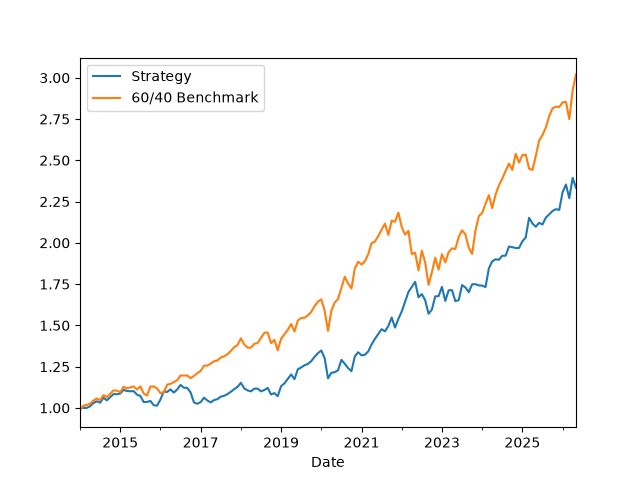
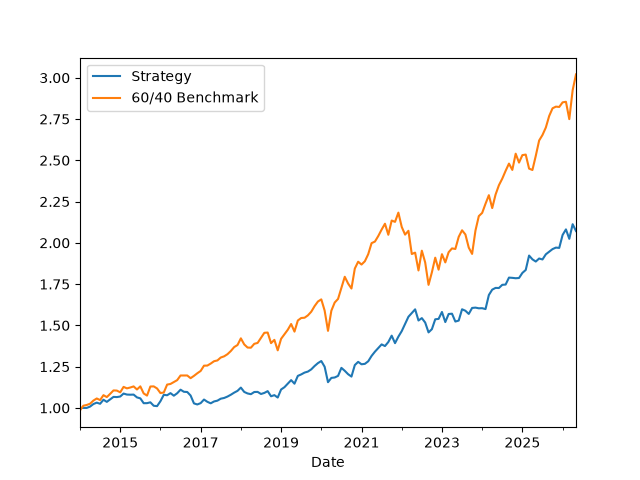
wire momentum tilt into allocation chain
Momentum state (PMI) now derives a per-row weight tilt via
apply_tilt: lean-in/hold/de-risk scale the basket against a
cash buffer, conserving row sums to 1.0. Tunable knobs (buffer=0.20,
magnitude=0.10) live at the call site; magnitude=0.0 recovers a
pure-buffer control

Vintage backtest (2014-2026-05): tilt-on 2.08x, control 2.07x vs
prior 2.33x baseline. Buffer costs -0.26x drag; PMI-momentum timing
adds +0.01x at default knobs -- a wash. Knobs left at a priori defaults,
not fit

diff --git a/src/phase_3/momentum_tilt.py b/src/phase_3/momentum_tilt.py
@@ -30,11 +30,23 @@ def momentum_to_state(momentum, deadband=1.0):
     else:
         return 'flat'
     
+def apply_tilt(weights, stance, buffer, magnitude):
+    if magnitude > buffer:
+        raise ValueError('magnitude must be lesser than or equal to buffer')
 
-for val in [2.5, -2.5, 0.3, -0.8, float('nan')]:
-    print(val, '->', momentum_to_state(val))
-    print(lookup('Goldilocks', 'accel'))
-    print(lookup('Risk-Off', 'accel'))
-    print(lookup('Stagflation', 'decel'))
-    print(lookup('Goldilocks', 'none'))
+    sign = {'lean-in': +1, 'hold': 0, 'de-risk': -1}
+    factor = (1 - buffer) + sign[stance] * magnitude
+
+    tilt = weights * factor
+    tilt['BIL'] = tilt['BIL'] + (1 - factor)
+
+    return tilt
+
+if __name__ == '__main__':
+    for val in [2.5, -2.5, 0.3, -0.8, float('nan')]:
+        print(val, '->', momentum_to_state(val))
+        print(lookup('Goldilocks', 'accel'))
+        print(lookup('Risk-Off', 'accel'))
+        print(lookup('Stagflation', 'decel'))
+        print(lookup('Goldilocks', 'none'))
 

diff --git a/src/phase_2/backtest.py b/src/phase_2/backtest.py
@@ -1,4 +1,6 @@
 from src.phase_1.classify_regime import classify_regime
+from src.phase_3.momentum import momentum
+from src.phase_3.momentum_tilt import lookup, momentum_to_state, apply_tilt
 import pandas as pd
 
 CATEGORY_TO_TICKER = {
@@ -35,11 +37,15 @@ def weights_from_classification(classification, tickers):
 
     return weights
 
-def build_weights_table(inputs, tickers):
+def build_weights_table(inputs, tickers, states, buffer=0.20, magnitude=0.10):
     rows = {}
     for date, row in inputs.iterrows():
         classification = classify_regime(row['pmi'], row['cpi'])
-        rows[date] = weights_from_classification(classification, tickers)
-    
+        base = weights_from_classification(classification, tickers)
+        state = states[date]
+        stance = lookup(classification['regime'], state)
+        tilted_row = apply_tilt(pd.Series(base), stance, buffer, magnitude)
+        rows[date] = tilted_row
+
     return pd.DataFrame(rows).T
     

diff --git a/src/phase_2/run_backtest.py b/src/phase_2/run_backtest.py
@@ -2,6 +2,9 @@ from src.phase_2.fred_data import fetch_cpi, fetch_pmi, smooth, cpi_to_yoy, fetc
 from src.phase_2.backtest import build_weights_table
 from src.phase_2.price_data import fetch_prices
 from src.phase_2.backtest import to_monthly_returns, cumulative
+from src.phase_3.momentum import momentum
+from src.phase_3.momentum_tilt import momentum_to_state, apply_tilt, lookup
+
 import pandas as pd
 import matplotlib.pyplot as plt
 import os
@@ -58,8 +61,9 @@ def build_vintage_inputs(fred):
 
 if __name__ == '__main__':
     inputs = build_vintage_inputs(fred)
-
-    weights = build_weights_table(inputs, tickers)
+    mom = momentum(inputs['pmi'])
+    states = mom.apply(momentum_to_state)
+    weights = build_weights_table(inputs, tickers, states)
     weights = weights.shift(1)
 
     prices = fetch_prices(tickers, '2010-01-01', None)

diff --git a/tests/test_momentum.py b/tests/test_momentum.py
@@ -1,7 +1,8 @@
 from src.phase_3.momentum import momentum
-from src.phase_3.momentum_tilt import lookup, momentum_to_state
+from src.phase_3.momentum_tilt import lookup, momentum_to_state, apply_tilt
 import pytest
 import pandas as pd
+from pandas.testing import assert_series_equal
 
 def test_momentum():
     series = pd.Series([
@@ -25,3 +26,9 @@ def test_lookup():
     assert lookup('Goldilocks', 'flat') == 'hold'
     assert lookup('Stagflation', 'flat') == 'hold'
     assert lookup('Goldilocks', 'none') == 'hold'
+
+def test_apply_tilt():
+    row = pd.Series({'TLT': 0.34, 'GLD': 0.33, 'BIL': 0.33})
+    result = apply_tilt(row, 'de-risk', 0.20, 0.10)
+    expected = pd.Series({'TLT': 0.238, 'GLD': 0.231, 'BIL': 0.531})
+    assert_series_equal(result, expected)
